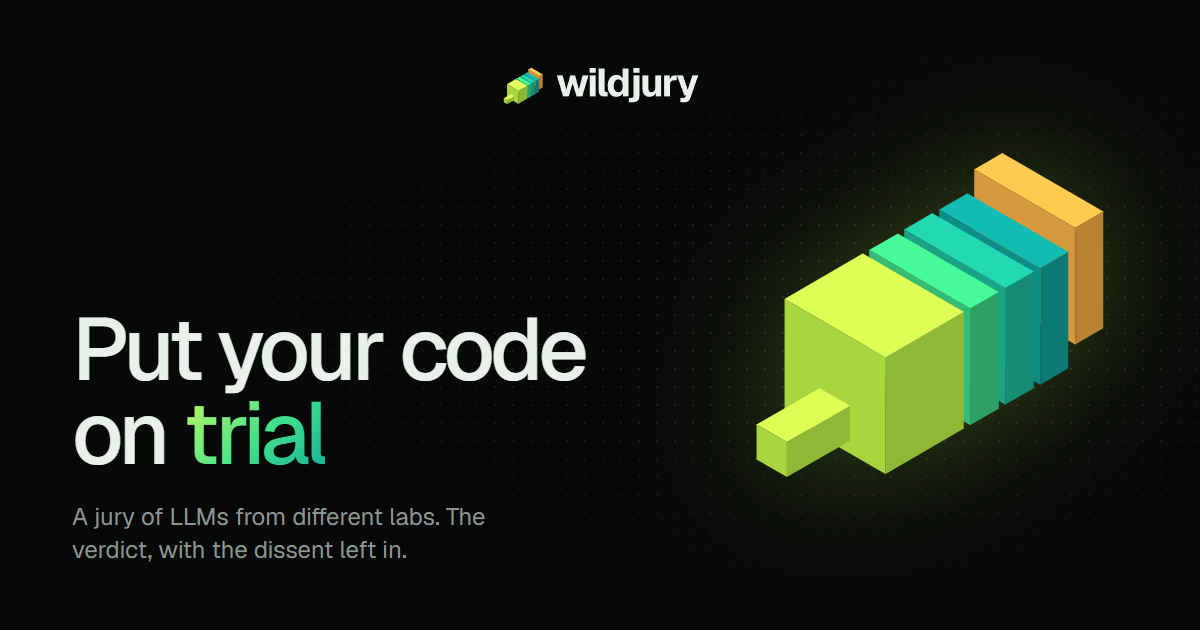
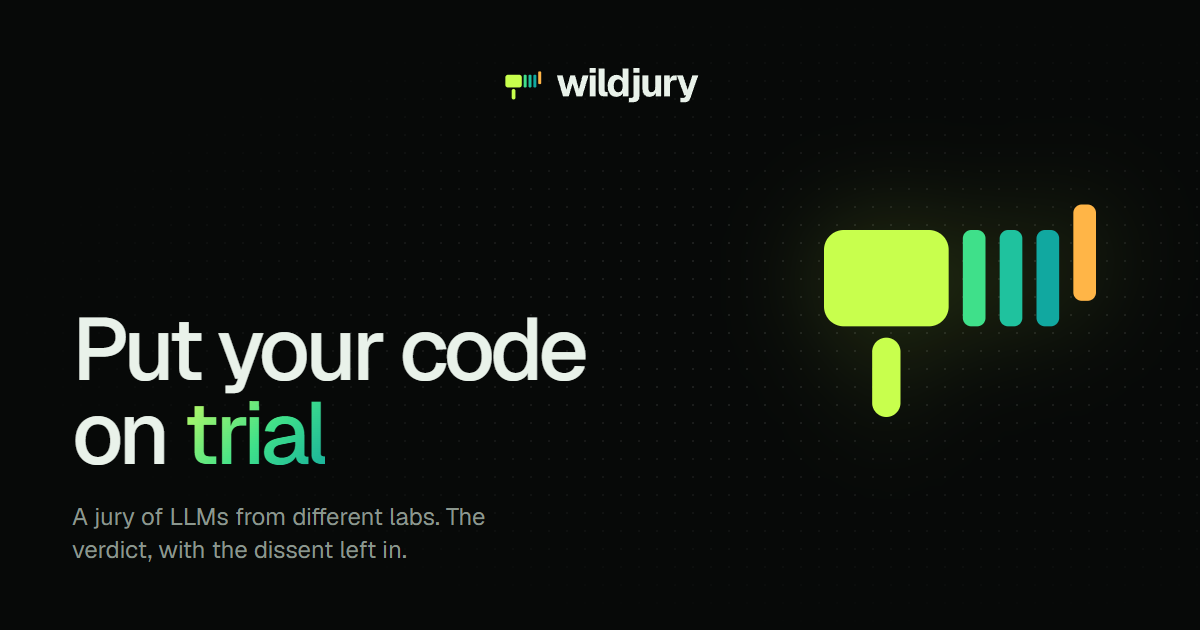
feat: flat minimal gavel mark

Changed region(s): [[0.6167, 0.2413, 0.925, 0.754], [0.4008, 0.0905, 0.4625, 0.181]]

diff --git a/brand/source/kit.html b/brand/source/kit.html
@@ -42,7 +42,7 @@
 <main id="logo">
   <div class="tile big"><img src="../logo/wildjury-lockup.svg" alt="" style="height: 110px" /><small>Lockup · on ink</small></div>
   <div class="col">
-    <div class="tile"><img class="m" src="../logo/wildjury-mark.svg" alt="" style="width: 170px" /><small>Mark · the gavel: ballots stacked, the dissent stands up</small></div>
+    <div class="tile"><img class="m" src="../logo/wildjury-mark.svg" alt="" style="width: 170px" /><small>Mark · a gavel whose head is the ballots; the amber one stands up</small></div>
     <div class="tile"><img class="m" src="../logo/wildjury-mark-tile.svg" alt="" style="width: 150px" /><small>App tile</small></div>
   </div>
   <div class="col">
@@ -66,7 +66,7 @@
   <div class="spec"><small>Labels & code · Geist Mono</small><div class="m">wj-mw9p 4/5</div><p>Commands, model ids, counts, uppercase labels with wide tracking.</p></div>
   <div class="rules">
     <div><b>Voice</b>Plain and short. Courtroom words only where they carry meaning: juror, verdict, dissent, hung.</div>
-    <div><b>Imagery</b>Isometric blocks and coloured ASCII on ink. Lime to teal; amber only for dissent.</div>
+    <div><b>Imagery</b>Flat blocks and coloured ASCII on ink. Lime to teal; amber only for dissent.</div>
     <div><b>Never</b>Recolour the slices, add a second amber slice, retype the wordmark, or use the gradient on body text.</div>
   </div>
 </main>

diff --git a/brand/source/banner.html b/brand/source/banner.html
@@ -5,7 +5,7 @@
   /* 1500×500 at 2× = 3000×1000 X header. Left 300px stays clear of the avatar overlap. */
   body { position: relative; }
   .dots { mask-image: linear-gradient(90deg, transparent 0%, #000 40%, #000 60%, transparent 100%); }
-  .art { position: absolute; right: 120px; top: 50%; width: 400px; transform: translateY(-50%); filter: drop-shadow(0 0 60px rgba(200, 255, 77, 0.25)); }
+  .art { position: absolute; right: 120px; top: 50%; width: 340px; transform: translateY(-50%); filter: drop-shadow(0 0 50px rgba(200, 255, 77, 0.2)); }
   .copy { position: absolute; left: 340px; top: 50%; transform: translateY(-50%); }
   .lockup { height: 40px; margin-bottom: 30px; }
   h1 { font-size: 66px; line-height: 0.98; letter-spacing: -0.05em; font-weight: 500; }

diff --git a/brand/source/og.html b/brand/source/og.html
@@ -5,7 +5,7 @@
   /* 1200×630 link preview. */
   body { position: relative; padding: 64px 72px; }
   .dots { mask-image: radial-gradient(ellipse at 70% 50%, #000 20%, transparent 70%); }
-  .art { position: absolute; right: 70px; top: 50%; width: 400px; transform: translateY(-50%); filter: drop-shadow(0 0 60px rgba(200, 255, 77, 0.25)); }
+  .art { position: absolute; right: 70px; top: 50%; width: 340px; transform: translateY(-50%); filter: drop-shadow(0 0 50px rgba(200, 255, 77, 0.2)); }
   
   .copy { position: relative; display: flex; flex-direction: column; height: 100%; }
   .lockup { height: 44px; }
